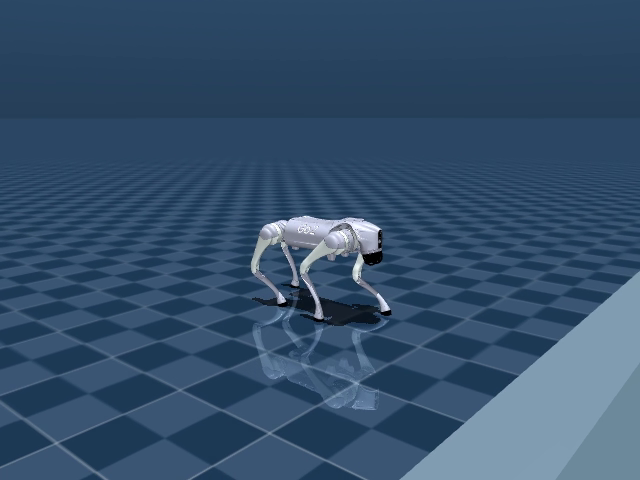
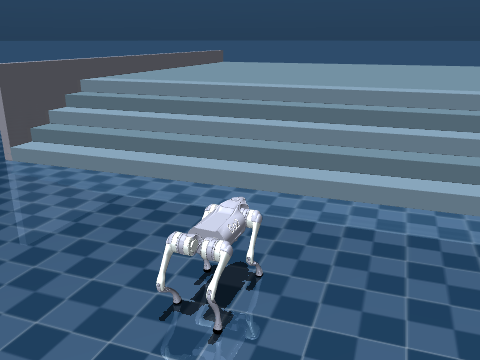
feat: update DreamWaQ 15cm stair climb demonstration to rear chase view (vx=0.9m/s)
- Switch simulation camera to rear chase view looking forward at 15cm stairs (azimuth=20 deg, elevation=-18 deg, distance=2.4m)
- Upgrade velocity command to 0.9 m/s for agile and responsive stair negotiation
- Re-render clean 15cm stair climb GIF (3.50 MB, 180 frames @ 25fps) and update 3 keyframes
- Eliminate front-view step occlusions in README.md

diff --git a/README.md b/README.md
@@ -9,7 +9,7 @@
 ![Go2 DreamWaQ 15cm Stairs Summit](assets/dreamwaq_15cm_stairs_climb.gif)
 
 **Unitree Go2 基于 DreamWaQ ($\beta\text{-VAE}$ 动力学自编码世界模型) 纯本体感觉盲走实录**  
-*(平地激光直线助跑 $\to$ 0.3s 前瞻提膝连续翻越 5 阶 15cm 极限高台阶 $\to$ 天台平稳高速冲刺)*
+*(平地高速助跑直行 $v_x = 0.9\,\text{m/s}$ $\to$ 连续攻克翻越 5 阶 15cm 极限高台阶 $\to$ 天台平稳高速冲刺 | MuJoCo Sim2Sim 后方越肩追随实拍)*
 
 | 阶段 1：平地激光级直线助跑 ($x=-0.3 \to 1.2\text{m}$) | 阶段 2：0.3s 前瞻连续攻坚 15cm 台阶 ($z=0.35 \to 1.01\text{m}$) | 阶段 3：高台天台平稳冲刺 ($z=1.10\text{m}$, 侧偏 < 8mm) |
 | :---: | :---: | :---: |
